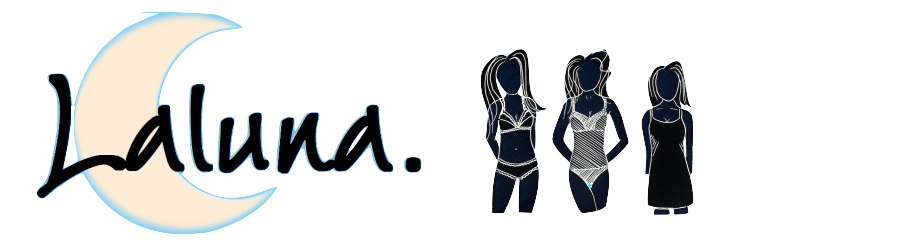
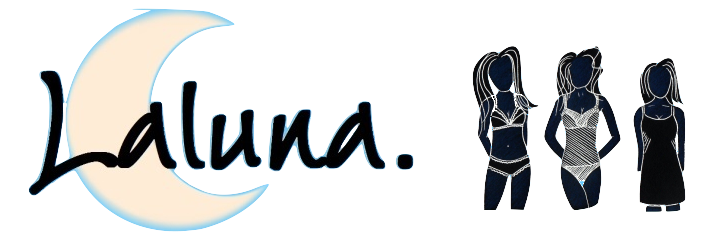
optimize for mobile view

diff --git a/app/src/components/Header.svelte b/app/src/components/Header.svelte
@@ -9,6 +9,11 @@
         /* margin: 55px 15px 0 15px; */
         padding: 156px 0 100px;
     }
+@media only screen and (max-width: 660px) {
+  header {
+     background-image: url(/img/laluna_header_mobile.png);
+  }
+}
 </style>
 
 <header class="text-white">

diff --git a/app/public/global.css b/app/public/global.css
@@ -1,5 +1,6 @@
 body {
   text-align: center;
+  overflow-x: hidden;
 }
 
 h3 button {
